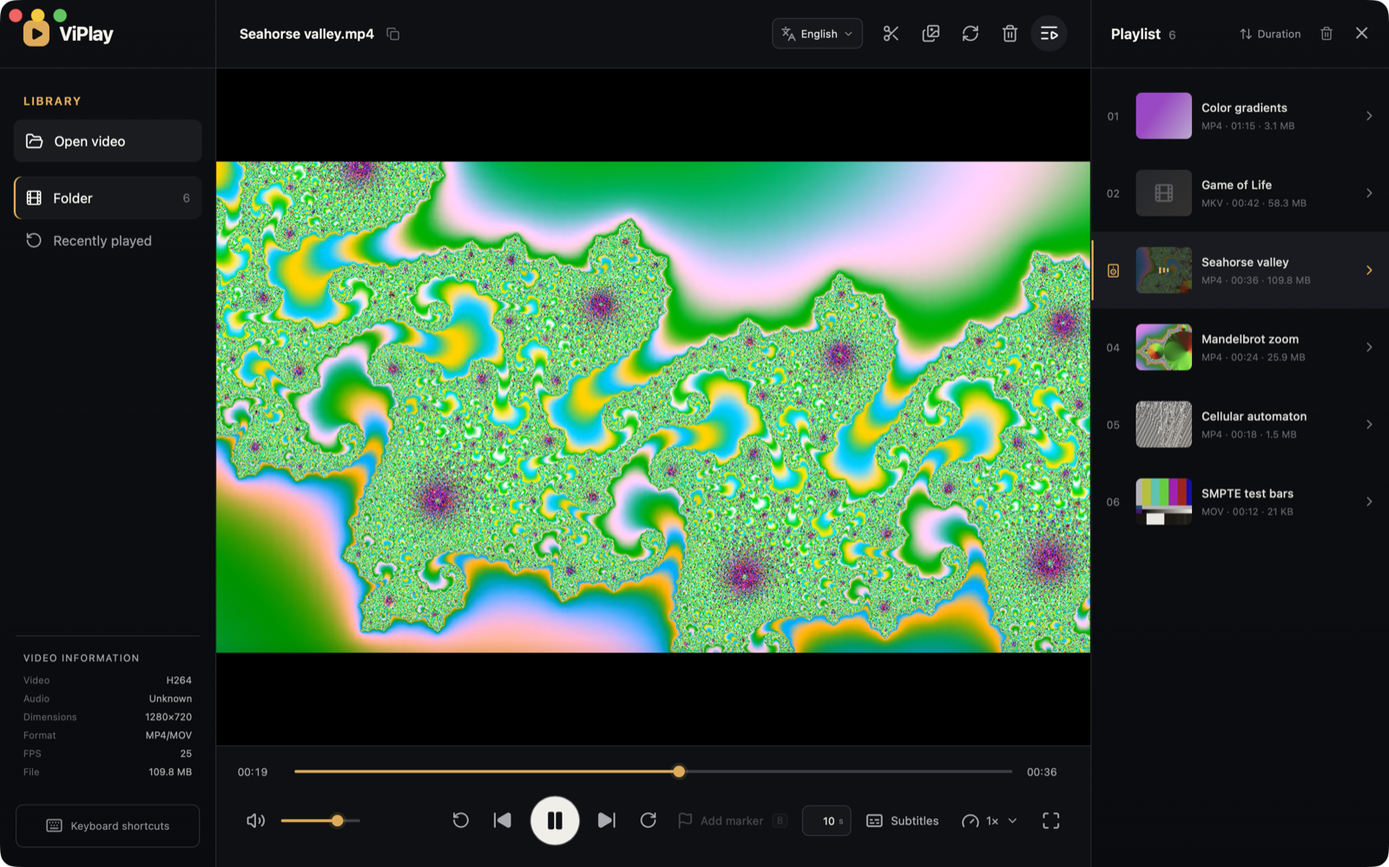
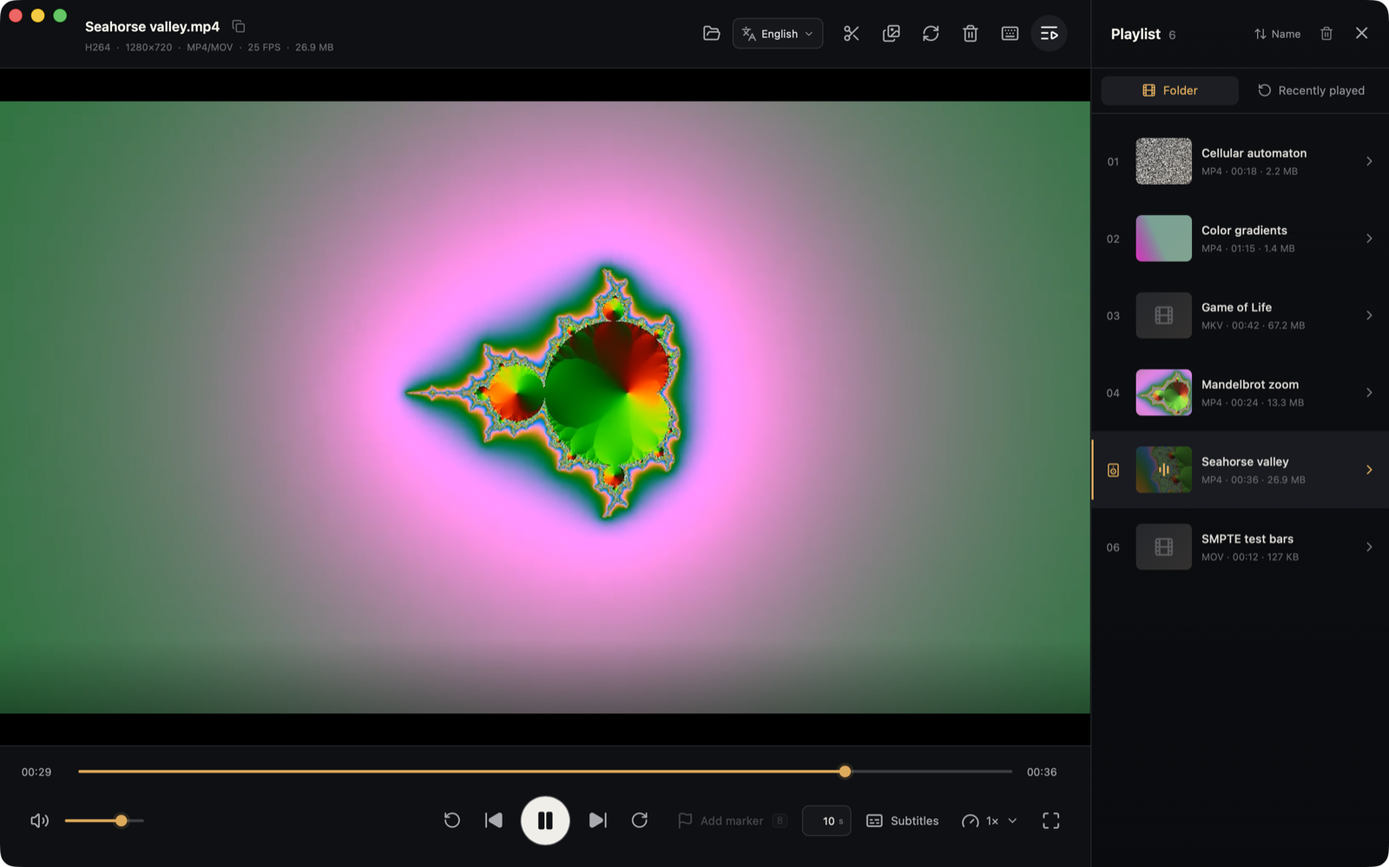
Remove the left sidebar, fix the delete dialog, and update to Wails v3.0.0
- Move Open video and keyboard shortcuts into the top bar, Folder/Recently
  played into playlist tabs, and media details under the file name
- Truncate long file names so top-bar buttons stay in place
- Fullscreen shows only the video, with hover-revealed controls and an
  idle-hidden cursor; Esc leaves fullscreen
- Fix the delete dialog's confirm button, which called a removed handler
- Start playback automatically after Open video
- Update Wails to v3.0.0 and refresh the README screenshot

diff --git a/frontend/src/styles.css b/frontend/src/styles.css
@@ -3,33 +3,16 @@
 html,body,#root { margin:0; width:100%; height:100%; overflow:hidden; }
 button,select,input { font:inherit; }
 button { color:inherit; }
-.app { position:relative;height:100%;display:grid;grid-template-columns:224px minmax(0,1fr);background:#090a0c; }
-.app.queue-closed { grid-template-columns:224px minmax(0,1fr); }
-.sidebar,.queue { background:linear-gradient(180deg,#0d0f12,#0a0b0e); min-width:0; z-index:3; }
-.sidebar { border-right:1px solid var(--line); display:flex; flex-direction:column; }
-.brand { height:72px; display:flex; align-items:center; gap:10px; padding:0 24px; font-weight:700; font-size:20px; letter-spacing:-.5px; border-bottom:1px solid var(--line); --wails-draggable:drag; -webkit-app-region:drag; }
-.brand-mark { width:27px;height:27px;border-radius:8px;background:var(--amber);color:#171109;display:grid;place-items:center; }
-nav { padding:26px 14px; --wails-draggable:none; -webkit-app-region:no-drag; }
-.nav-title { display:block;color:var(--amber);font-size:12px;font-weight:600;text-transform:uppercase;letter-spacing:1.3px;padding:0 10px 12px; }
-.open-button,.nav-item { width:100%;height:44px;border:0;border-radius:8px;display:flex;align-items:center;gap:11px;padding:0 12px;background:transparent;color:#9b9da3;cursor:pointer;text-align:left;font-size:14px; }
-.open-button { background:#1a1c20;color:#f5f3ed;margin-bottom:15px; }
-.open-button:hover { background:#22252a; }
-.nav-item:hover,.nav-item.selected { color:#f3f0e8;background:#16181c; }
-.nav-item.selected { box-shadow:inset 2px 0 var(--amber); }
-.nav-item:disabled { cursor:default;opacity:.45;background:transparent; }
-.nav-item span { margin-left:auto;color:#686b72;font-size:12px; }
-.shortcut-card { margin:auto 16px 0;padding:16px;border-top:1px solid var(--line);color:#777a82;font-size:11px;line-height:2.3; }
-.shortcut-card>span { display:block;color:#a5a7ac;text-transform:uppercase;letter-spacing:1px;margin-bottom:5px; }
+.app { position:relative;height:100%;display:grid;grid-template-columns:minmax(0,1fr) 310px;background:#090a0c; }
+.app.queue-closed { grid-template-columns:minmax(0,1fr); }
+.queue { background:linear-gradient(180deg,#0d0f12,#0a0b0e); min-width:0; z-index:3; }
 kbd { background:#1b1d22;border:1px solid #33363c;border-radius:4px;color:#bbb;padding:2px 5px;margin-right:5px;font-size:10px; }
-.engine-note { padding:20px 26px 26px;color:#575a61;font-size:11px;line-height:1.6; }.engine-note strong{color:#85878d;font-weight:500}
-.media-sidebar{margin:auto 16px 0;padding:16px 8px;border-top:1px solid var(--line)}.media-sidebar>span{display:block;color:#a5a7ac;font-size:10px;text-transform:uppercase;letter-spacing:1px;margin-bottom:11px}.media-sidebar dl{display:grid;gap:7px;margin:0}.media-sidebar dl div{display:flex;justify-content:space-between;gap:9px}.media-sidebar dt{color:#5f6269;font-size:10px}.media-sidebar dd{margin:0;color:#aaa;max-width:105px;font-size:10px;white-space:nowrap;overflow:hidden;text-overflow:ellipsis}.media-sidebar p{margin:0;color:#5f6269;font-size:10px;line-height:1.5}.sidebar nav{flex:1}
-.shortcut-trigger{height:45px;margin:12px 16px 20px;border:1px solid #292c31;border-radius:8px;background:transparent;color:#898c93;display:flex;align-items:center;justify-content:center;gap:8px;font-size:11px;cursor:pointer}.shortcut-trigger:hover{color:#fff;border-color:#44474e;background:#15171b}
 .shortcut-modal{position:absolute;z-index:20;inset:0;background:rgba(0,0,0,.66);display:grid;place-items:center;backdrop-filter:blur(8px)}.shortcut-modal>section{width:min(420px,calc(100% - 40px));padding:20px 22px;background:#131519;border:1px solid #30333a;border-radius:13px;box-shadow:0 30px 90px #000}.shortcut-modal header{display:flex;align-items:center;justify-content:space-between;margin-bottom:18px}.shortcut-modal header>div{display:flex;flex-direction:column;gap:3px}.shortcut-modal header span{color:var(--amber);font-size:9px;letter-spacing:1.3px;text-transform:uppercase}.shortcut-modal header strong{font-size:17px}.shortcut-modal dl{display:grid;gap:0;margin:0}.shortcut-modal dl div{min-height:46px;display:flex;align-items:center;justify-content:space-between;border-top:1px solid #292c31}.shortcut-modal dt{color:#9b9da3;font-size:12px}.shortcut-modal dd{margin:0;display:flex;gap:4px}
-.player-shell { width:100%;height:100%;min-width:0;min-height:0;overflow:hidden;display:grid;grid-template-rows:72px minmax(0,1fr) 126px;background:#07080a; }
+.player-shell { width:100%;height:100%;min-width:0;min-height:0;overflow:hidden;display:grid;grid-template-columns:minmax(0,1fr);grid-template-rows:72px minmax(0,1fr) 126px;background:#07080a; }
 .topbar { display:flex;align-items:center;justify-content:space-between;padding:0 24px;border-bottom:1px solid var(--line);background:#0e1013; --wails-draggable:drag; -webkit-app-region:drag; }
 .topbar-actions{display:flex;align-items:center;gap:3px;--wails-draggable:none;-webkit-app-region:no-drag;}.icon-btn:disabled{opacity:.3;cursor:not-allowed}.icon-btn.danger:not(:disabled):hover{color:#ff7d73;background:rgba(255,90,80,.1)}
 .language-picker{height:32px;display:flex;align-items:center;gap:5px;margin-right:7px;padding:0 8px;border:1px solid #30333a;border-radius:7px;background:#15171b;color:#8f9299;--wails-draggable:none;-webkit-app-region:no-drag;}.language-picker select{max-width:76px;appearance:none;border:0;outline:0;background:transparent;color:#d8d9dc;font-size:11px;cursor:pointer}.language-picker option{background:#16181c;color:#fff}
-.topbar>div:first-child { min-width:0;display:flex;flex-direction:column;gap:3px; }.topbar strong{white-space:nowrap;overflow:hidden;text-overflow:ellipsis;font-weight:600;font-size:14px}.eyebrow{font-size:9px;letter-spacing:1.6px;color:#686b72}
+.topbar-left { flex:1;min-width:0;display:flex;align-items:center;gap:10px;margin-right:16px; }.topbar strong{white-space:nowrap;overflow:hidden;text-overflow:ellipsis;font-weight:600;font-size:14px}.eyebrow{font-size:9px;letter-spacing:1.6px;color:#686b72}
 .topbar-file{min-width:0;display:flex;align-items:center;gap:7px}.topbar-file strong{min-width:0}.copy-path{flex:none;width:25px;height:25px;padding:0;border:0;border-radius:6px;background:transparent;color:#696c73;display:grid;place-items:center;cursor:pointer;--wails-draggable:none;-webkit-app-region:no-drag;}.copy-path:hover:not(:disabled){background:#1f2227;color:var(--amber)}.copy-path:disabled{opacity:.25;cursor:not-allowed}
 button,select,input{--wails-draggable:none;-webkit-app-region:no-drag;}
 .icon-btn { border:0;background:transparent;width:38px;height:38px;border-radius:50%;display:grid;place-items:center;color:#a8aab0;cursor:pointer; }
@@ -51,14 +34,14 @@ input[type=range]{--progress:0%;appearance:none;height:3px;border-radius:2px;bac
 .seek-step{height:32px;display:flex;align-items:center;border:1px solid #30333a;border-radius:7px;background:#15171b;color:#777a82;overflow:hidden}.seek-step input{width:35px;border:0;outline:0;background:transparent;color:#e4e1da;text-align:right;font-size:11px;padding:0 2px 0 5px;appearance:textfield}.seek-step input::-webkit-inner-spin-button,.seek-step input::-webkit-outer-spin-button{appearance:none;margin:0}.seek-step span{padding:0 7px 0 2px;font-size:9px}.seek-step:focus-within{border-color:var(--amber);box-shadow:0 0 0 2px rgba(231,168,75,.1)}
 .queue { border-left:1px solid var(--line);display:flex;flex-direction:column;min-width:0; }.queue-head{height:72px;border-bottom:1px solid var(--line);padding:0 10px 0 20px;display:flex;align-items:center;justify-content:space-between;gap:8px}.queue-head>div{display:flex;align-items:center;gap:2px}.queue-head strong{font-weight:600;font-size:15px;display:flex;align-items:baseline;gap:8px}.queue-head strong span{font-size:12px;font-weight:500;color:#686b72}.icon-btn.small{width:32px;height:32px;color:#777a81}.queue-list{overflow:auto;flex:1;padding:9px 0}.queue-item{border:0;background:transparent;width:100%;min-height:80px;display:grid;grid-template-columns:27px 58px 1fr 16px;gap:10px;align-items:center;text-align:left;padding:9px 13px 9px 9px;color:#74777e;cursor:pointer;position:relative}.queue-item:hover{background:#14161a}.queue-item.current{background:#191b20;color:var(--amber)}.queue-item.current:before{content:'';position:absolute;left:0;top:9px;bottom:9px;width:2px;background:var(--amber)}.queue-number{font-size:11px;text-align:center}.thumb{width:58px;height:48px;border-radius:6px;background:#24272c;color:#555960;display:grid;place-items:center;position:relative;overflow:hidden}.thumb:after{content:'';position:absolute;inset:0;background:linear-gradient(135deg,transparent,rgba(231,168,75,.08))}.thumb i{position:absolute;inset:0;background:rgba(0,0,0,.6);display:flex;align-items:center;justify-content:center;gap:2px;z-index:2}.thumb i span{display:block;width:2px;background:var(--amber);animation:eq .7s infinite alternate}.thumb i span:nth-child(1){height:12px}.thumb i span:nth-child(2){height:20px;animation-delay:.2s}.thumb i span:nth-child(3){height:8px;animation-delay:.4s}@keyframes eq{to{height:4px}}.queue-copy{min-width:0;display:flex;flex-direction:column;gap:5px}.queue-copy strong{color:#d8d6d1;font-size:12px;font-weight:500;white-space:nowrap;overflow:hidden;text-overflow:ellipsis}.queue-copy small{font-size:10px;color:#62656c}.queue-empty{text-align:center;color:#5d6067;padding:65px 20px}.queue-empty p{color:#92949a;font-size:13px}.queue-empty button{font-size:12px;padding:9px 13px}
 .thumbnail-progress{padding:11px 13px;border-bottom:1px solid var(--line);background:#0c0e11}.thumbnail-progress-head{display:flex;align-items:center;justify-content:space-between;gap:8px}.thumbnail-progress-head small{font-size:11px;color:#8c8f96}.thumbnail-progress-head>div{display:flex;gap:2px}.thumbnail-progress button{width:26px;height:26px;padding:0;border:0;border-radius:6px;background:transparent;color:#777a81;display:grid;place-items:center;cursor:pointer}.thumbnail-progress button:hover{background:#202329;color:#fff}.thumbnail-progress-track{height:3px;margin-top:9px;border-radius:2px;background:#292c31;overflow:hidden}.thumbnail-progress-track i{display:block;height:100%;border-radius:inherit;background:var(--amber);transition:width .2s}.thumbnail-current{display:block;margin-top:6px;color:#55585f;font-size:8px;white-space:nowrap;overflow:hidden;text-overflow:ellipsis}
-@media(max-width:1150px){.app{grid-template-columns:74px minmax(0,1fr) 280px}.app.queue-closed{grid-template-columns:74px minmax(0,1fr)}.brand{padding:0;justify-content:center;font-size:0}.brand-mark{display:grid}nav{padding:22px 9px}.nav-title,.nav-item span,.nav-item{font-size:0}.open-button{font-size:0;justify-content:center;padding:0}.nav-item{justify-content:center;padding:0}.shortcut-card,.engine-note,.media-sidebar{display:none}.shortcut-trigger{width:44px;margin:auto auto 18px;font-size:0;padding:0}.tool span,.volume-group input,.marker-tool kbd{display:none}}
-@media(max-width:860px){.app{grid-template-columns:64px minmax(0,1fr)}.queue{position:absolute;right:0;top:0;bottom:0;width:290px;box-shadow:-20px 0 50px #000}.player-shell{grid-template-rows:64px minmax(0,1fr) 118px}.topbar,.queue-head{height:64px}.controls{padding:11px 12px}.tools .speed svg:first-child{display:none}.transport{gap:0}.control-row{grid-template-columns:70px 1fr 100px}.primary-play{width:45px;height:45px}.sidebar .brand{height:64px}}
+@media(max-width:1150px){.app{grid-template-columns:minmax(0,1fr) 280px}.tool span,.volume-group input,.marker-tool kbd{display:none}}
+@media(max-width:860px){.app{grid-template-columns:minmax(0,1fr)}.queue{position:absolute;right:0;top:0;bottom:0;width:290px;box-shadow:-20px 0 50px #000}.player-shell{grid-template-rows:64px minmax(0,1fr) 118px}.topbar,.queue-head{height:64px}.controls{padding:11px 12px}.tools .speed svg:first-child{display:none}.transport{gap:0}.control-row{grid-template-columns:70px 1fr 100px}.primary-play{width:45px;height:45px}}
 @media(prefers-reduced-motion:reduce){*{animation:none!important;transition:none!important}}
 
 /* The playlist is a column so it never covers the toolbar or controls; it overlays only on narrow windows. */
-.app{grid-template-columns:224px minmax(0,1fr) 310px}
-@media(max-width:1150px){.app{grid-template-columns:74px minmax(0,1fr) 280px}.app.queue-closed{grid-template-columns:74px minmax(0,1fr)}}
-@media(max-width:860px){.app,.app.queue-closed{grid-template-columns:64px minmax(0,1fr)}.queue{position:absolute;right:0;top:0;bottom:0;width:290px;box-shadow:-20px 0 50px rgba(0,0,0,.45)}}
+.app{grid-template-columns:minmax(0,1fr) 310px}
+@media(max-width:1150px){.app{grid-template-columns:minmax(0,1fr) 280px}.app.queue-closed{grid-template-columns:minmax(0,1fr)}}
+@media(max-width:860px){.app,.app.queue-closed{grid-template-columns:minmax(0,1fr)}.queue{position:absolute;right:0;top:0;bottom:0;width:290px;box-shadow:-20px 0 50px rgba(0,0,0,.45)}}
 .thumb>img{position:absolute;inset:0;width:100%;height:100%;object-fit:cover;z-index:1}.thumb:after{z-index:1}
 .operation-btn.processing{color:var(--amber);background:rgba(231,168,75,.12)}.operation-btn.can-cancel{color:#f06b62;background:rgba(240,107,98,.14)}.operation-btn.can-cancel:hover{background:rgba(240,107,98,.24);color:#ff7d74}.spin{animation:spin .8s linear infinite}@keyframes spin{to{transform:rotate(360deg)}}
 .operation-notice{position:absolute;z-index:30;right:24px;bottom:24px;width:min(520px,calc(100% - 48px));min-height:66px;padding:13px 15px;border:1px solid #35383f;border-radius:11px;background:rgba(20,22,26,.97);box-shadow:0 20px 65px rgba(0,0,0,.55);display:grid;grid-template-columns:24px minmax(0,1fr) 24px;gap:12px;align-items:center;text-align:left;color:#d8d9dc;backdrop-filter:blur(14px)}.operation-notice.transcode-notice{grid-template-columns:24px minmax(0,1fr) auto 24px;min-height:76px}.operation-notice.progress>svg:first-child{color:var(--amber)}.operation-notice.success{border-color:rgba(76,190,126,.4)}.operation-notice.success>svg:first-child{color:#58c98a}.operation-notice.error{border-color:rgba(240,91,82,.42);align-items:start}.operation-notice.error>svg:first-child{color:#f06b62}.operation-notice span{min-width:0;display:flex;flex-direction:column;gap:4px}.operation-notice strong{font-size:13px}.operation-notice small{font-size:10px;color:#8c8f96;white-space:nowrap;overflow:hidden;text-overflow:ellipsis}.operation-notice.error small{max-height:160px;overflow:auto;white-space:pre-wrap;overflow-wrap:anywhere;line-height:1.45;user-select:text}.notice-stop{width:26px;height:26px;padding:0;border:1px solid #4a4130;border-radius:6px;background:rgba(231,168,75,.12);color:var(--amber);display:grid;place-items:center;cursor:pointer;transition:.15s}.notice-stop:hover{background:rgba(231,168,75,.25);border-color:var(--amber);color:#fff}.transcode-progress-track{width:100%;height:4px;background:#2a2d33;border-radius:2px;overflow:hidden;margin-top:5px}.transcode-progress-fill{height:100%;background:var(--amber);transition:width .2s ease-out}.transcode-progress-meta{display:flex;align-items:center;gap:8px;font-size:10px;color:#8c8f96;margin-top:2px}.transcode-progress-meta span:first-child{color:var(--amber);font-weight:600}.notice-close{width:24px;height:24px;padding:0;border:0;border-radius:5px;background:transparent;color:#6d7077;display:grid;place-items:center;cursor:pointer}.notice-close:hover{background:#2b2e34;color:#d8d9dc}.notice-enter-active,.notice-leave-active{transition:.2s}.notice-enter-from,.notice-leave-to{opacity:0;transform:translateY(10px)}
@@ -87,3 +70,15 @@ html.native-engine, html.native-engine .app, html.native-engine .player-shell, h
 .queue-sort option{background:#16181c;color:#fff}
 .queue-head strong{min-width:0;white-space:nowrap}
 .queue-head>div{flex-shrink:0}
+/* Fullscreen shows only the picture; controls appear while hovered or focused. */
+.app.fullscreen .topbar{display:none}
+.app.fullscreen .player-shell{position:relative;grid-template-rows:minmax(0,1fr)}
+.app.fullscreen .controls{position:absolute;left:0;right:0;bottom:0;opacity:0;transition:opacity .2s}
+.app.fullscreen .controls:hover,.app.fullscreen .controls:focus-within{opacity:1}
+.app.cursor-idle,.app.cursor-idle *{cursor:none!important}
+.topbar-actions{flex:none}
+.topbar-meta{min-width:0;display:flex;flex-direction:column;gap:3px}
+.media-details{display:flex;gap:6px;color:#686b72;font-size:10px;white-space:nowrap;overflow:hidden}.media-details span+span:before{content:'·';margin-right:6px}
+/* The window keeps the macOS traffic lights over the top-left corner of the full-size content. */
+html.mac .topbar{padding-left:88px}
+.queue-tabs{display:flex;gap:4px;padding:8px 10px;border-bottom:1px solid var(--line)}.queue-tabs button{flex:1;height:30px;border:0;border-radius:7px;background:transparent;color:#8c8f96;display:flex;align-items:center;justify-content:center;gap:7px;font-size:12px;cursor:pointer}.queue-tabs button:hover:not(:disabled){background:#16181c;color:#f3f0e8}.queue-tabs button.selected{background:#1b1e23;color:var(--amber)}.queue-tabs button:disabled{opacity:.4;cursor:default}

diff --git a/frontend/src/App.vue b/frontend/src/App.vue
@@ -28,6 +28,8 @@ let wasPlayingBeforeSeek = false
 let scrubRaf = null
 const fullscreenActive = ref(false)
 const showQueue = ref(true)
+const cursorIdle = ref(false)
+let cursorTimer
 const subtitle = ref(null)
 const showShortcuts = ref(false)
 const showSheetDialog = ref(false)
@@ -105,6 +107,7 @@ async function openVideos() {
   queue.value = directory
   const selectedIndex = directory.findIndex(entry => entry.path === items[0].path)
   index.value = Math.max(0, selectedIndex)
+  autoplayOnReady = true
   libraryView.value = 'folder'
 }
 
@@ -445,8 +448,17 @@ function onTimeUpdate(event) {
 
 async function fullscreen() {
   await Window.ToggleFullscreen()
+  await syncFullscreen()
+}
+async function syncFullscreen() {
   fullscreenActive.value = await Window.IsFullscreen()
 }
+function wakeCursor() {
+  cursorIdle.value = false
+  window.clearTimeout(cursorTimer)
+  if (fullscreenActive.value) cursorTimer = window.setTimeout(() => { cursorIdle.value = true }, 2500)
+}
+watch(fullscreenActive, wakeCursor)
 async function select(i, autoplay = false) {
   if (seekResumeTimer) {
     window.clearTimeout(seekResumeTimer)
@@ -465,6 +477,18 @@ function next() { if (index.value < queue.value.length - 1) select(index.value +
 function previous() { current.value > 3 ? seekBy(-current.value) : index.value > 0 && select(index.value - 1, true) }
 function title(name) { return name.replace(/\.[^/.]+$/, '') }
 function fileType(name) { return name.split('.').pop().toUpperCase() }
+const mediaDetails = computed(() => {
+  const info = mediaInfo.value
+  if (!info) return []
+  return [
+    { label: t('mediaInfo.video'), value: info.videoCodec?.toUpperCase() },
+    { label: t('mediaInfo.audio'), value: info.audioCodec?.toUpperCase() },
+    { label: t('mediaInfo.dimensions'), value: info.width ? `${info.width}×${info.height}` : '' },
+    { label: t('mediaInfo.format'), value: info.container?.toUpperCase() },
+    { label: 'FPS', value: info.fps ? `${info.fps} FPS` : '' },
+    { label: t('mediaInfo.file'), value: info.size ? fileSize(info.size) : '' },
+  ].filter(detail => detail.value)
+})
 function fileSize(value) {
   if (!value) return '—'
   const megabytes = value / 1024 / 1024
@@ -768,6 +792,7 @@ function onKey(event) {
   if (event.key === 'Escape' && showSheetDialog.value) { showSheetDialog.value = false; return }
   if (event.key === 'Escape' && showShortcuts.value) { showShortcuts.value = false; return }
   if (showDeleteDialog.value || showTranscodeDialog.value || showShortcuts.value) return
+  if (event.key === 'Escape' && fullscreenActive.value) { fullscreen(); return }
   if (['INPUT', 'BUTTON'].includes(document.activeElement?.tagName) && event.code === 'Space') return
   if (document.activeElement?.tagName === 'INPUT' && document.activeElement.type !== 'range' && ['ArrowRight', 'ArrowLeft'].includes(event.code)) return
   const player = video.value
@@ -902,7 +927,7 @@ function updateVideoArea() {
   const right = Math.min(rect.right, queueLeft)
   video.value.setVideoArea(rect.left / width, rect.top / height, (width - right) / width, (height - rect.bottom) / height)
 }
-watch(showQueue, () => nextTick(updateVideoArea))
+watch([showQueue, fullscreenActive], () => nextTick(updateVideoArea))
 
 async function initNativeEngine() {
   try {
@@ -938,6 +963,9 @@ onMounted(() => {
   window.addEventListener('keyup', onKeyUp)
   window.addEventListener('dragenter', onWindowDragOver)
   window.addEventListener('dragover', onWindowDragOver)
+  // The OS can leave fullscreen without going through fullscreen(), e.g. the macOS window button.
+  window.addEventListener('resize', syncFullscreen)
+  window.addEventListener('mousemove', wakeCursor)
   window.addEventListener('dragleave', onWindowDragLeave)
   window.addEventListener('drop', onWindowDrop)
   Events.On('files-dropped', onWailsFilesDropped)
@@ -948,6 +976,9 @@ onBeforeUnmount(() => {
   queueObserver?.disconnect()
   window.clearTimeout(visibleTimer)
   window.removeEventListener('resize', updateVideoArea)
+  window.removeEventListener('resize', syncFullscreen)
+  window.removeEventListener('mousemove', wakeCursor)
+  window.clearTimeout(cursorTimer)
   window.removeEventListener('keydown', onKey)
   window.removeEventListener('keyup', onKeyUp)
   window.removeEventListener('dragenter', onWindowDragOver)
@@ -967,43 +998,28 @@ onBeforeUnmount(() => {
 </script>
 
 <template>
-  <main class="app" data-file-drop-target :class="{ 'queue-closed': !showQueue }">
+  <main class="app" data-file-drop-target :class="{ 'queue-closed': !showQueue || fullscreenActive, fullscreen: fullscreenActive, 'cursor-idle': fullscreenActive && cursorIdle }">
     <div v-if="fileDragOver" class="drop-overlay">
       <div class="drop-overlay-icon"><Film :size="36" /></div>
       <h2>{{ t('drop.title') }}</h2>
       <p>{{ t('drop.description') }}</p>
     </div>
-    <aside class="sidebar">
-      <div class="brand"><span class="brand-mark"><Play :size="14" fill="currentColor" /></span>ViPlay</div>
-      <nav>
-        <span class="nav-title">{{ t('library.title') }}</span>
-        <button class="open-button" @click="openVideos"><FolderOpen :size="19" />{{ t('library.openVideo') }}</button>
-        <button class="nav-item" :class="{ selected: item && libraryView === 'folder' }" :disabled="!item" @click="loadFolder"><Film :size="18" />{{ t('library.folder') }}<span>{{ libraryView === 'folder' ? queue.length : '' }}</span></button>
-        <button class="nav-item" :class="{ selected: libraryView === 'recent' }" @click="loadRecent"><RotateCcw :size="18" />{{ t('library.recent') }}</button>
-      </nav>
-      <div v-if="item" class="media-sidebar">
-        <span>{{ t('mediaInfo.title') }}</span>
-        <dl>
-          <div><dt>{{ t('mediaInfo.video') }}</dt><dd>{{ mediaInfo?.videoCodec?.toUpperCase() || t('mediaInfo.unknown') }}</dd></div>
-          <div><dt>{{ t('mediaInfo.audio') }}</dt><dd>{{ mediaInfo?.audioCodec?.toUpperCase() || t('mediaInfo.unknown') }}</dd></div>
-          <div><dt>{{ t('mediaInfo.dimensions') }}</dt><dd>{{ mediaInfo?.width ? `${mediaInfo.width}×${mediaInfo.height}` : '—' }}</dd></div>
-          <div><dt>{{ t('mediaInfo.format') }}</dt><dd>{{ mediaInfo?.container?.toUpperCase() || '—' }}</dd></div>
-          <div><dt>FPS</dt><dd>{{ mediaInfo?.fps || '—' }}</dd></div>
-          <div><dt>{{ t('mediaInfo.file') }}</dt><dd>{{ fileSize(mediaInfo?.size) }}</dd></div>
-        </dl>
-      </div>
-      <button class="shortcut-trigger" @click="showShortcuts = true"><Keyboard :size="18" /><span>{{ t('shortcuts.open') }}</span></button>
-    </aside>
-
     <section class="player-shell">
       <header class="topbar">
-        <div><span v-if="item" class="topbar-file"><strong :title="item.path">{{ item.name }}</strong><button class="copy-path" :disabled="!item" :aria-label="t('pathCopy.action')" :title="t('pathCopy.action')" @click="copyFullPath"><Copy :size="14" /></button></span></div>
+        <div class="topbar-left">
+          <div v-if="item" class="topbar-meta">
+            <span class="topbar-file"><strong :title="item.path">{{ item.name }}</strong><button class="copy-path" :aria-label="t('pathCopy.action')" :title="t('pathCopy.action')" @click="copyFullPath"><Copy :size="14" /></button></span>
+            <small v-if="mediaDetails.length" class="media-details" :aria-label="t('mediaInfo.title')"><span v-for="detail in mediaDetails" :key="detail.label" :title="detail.label">{{ detail.value }}</span></small>
+          </div>
+        </div>
         <div class="topbar-actions">
+          <button class="icon-btn" :aria-label="t('library.openVideo')" :title="t('library.openVideo')" @click="openVideos"><FolderOpen :size="19" /></button>
           <label class="language-picker" :title="t('language.label')"><Languages :size="16" /><select :value="locale" :aria-label="t('language.label')" @change="changeLanguage"><option v-for="language in locales" :key="language.code" :value="language.code">{{ language.label }}</option></select><ChevronDown :size="12" /></label>
           <button class="icon-btn operation-btn" :class="{ processing: processing === 'split', marked: splitMarkers.length }" :aria-label="splitMarkers.length ? t('actions.multiSplit', { count: splitMarkers.length }) : t('actions.split')" :title="splitMarkers.length ? t('actions.multiSplitTitle', { count: splitMarkers.length }) : t('actions.splitTitle')" @click="splitAtMarkers"><LoaderCircle v-if="processing === 'split'" class="spin" :size="20" /><Scissors v-else :size="19" /><span v-if="splitMarkers.length" class="marker-count">{{ splitMarkers.length }}</span></button>
           <button class="icon-btn operation-btn" :class="{ processing: processing === 'sheet' }" :aria-label="t('actions.contactSheet')" :title="t('actions.contactSheetTitle')" @click="createContactSheet"><LoaderCircle v-if="processing === 'sheet'" class="spin" :size="20" /><Images v-else :size="19" /></button>
           <button class="icon-btn operation-btn" :class="{ processing: processing === 'transcode' || processing === 'options', 'can-cancel': processing === 'transcode' }" :disabled="!item || item.kind !== 'video' || (!!processing && processing !== 'transcode')" :aria-label="processing === 'transcode' ? t('transcode.cancelAction') : t('actions.transcode')" :title="processing === 'transcode' ? t('transcode.cancelAction') : t('actions.transcodeTitle')" @click="processing === 'transcode' ? cancelTranscode() : requestTranscode()"><X v-if="processing === 'transcode'" :size="19" /><LoaderCircle v-else-if="processing === 'options'" class="spin" :size="20" /><RefreshCw v-else :size="19" /></button>
           <button class="icon-btn danger" :disabled="processing === 'delete'" :aria-label="t('actions.delete')" :title="t('actions.deleteTitle')" @click="requestDelete()"><Trash2 :size="19" /></button>
+          <button class="icon-btn" :aria-label="t('shortcuts.open')" :title="t('shortcuts.open')" @click="showShortcuts = true"><Keyboard :size="19" /></button>
           <button class="icon-btn" :class="{ active: showQueue }" :aria-label="t('actions.showQueue')" :title="t('actions.showQueue')" @click="showQueue = !showQueue"><ListVideo :size="20" /></button>
         </div>
       </header>
@@ -1052,7 +1068,7 @@ onBeforeUnmount(() => {
       </div>
     </section>
 
-    <aside v-if="showQueue" ref="queuePanel" class="queue">
+    <aside v-if="showQueue && !fullscreenActive" ref="queuePanel" class="queue">
       <div class="queue-head">
         <strong>{{ t('queue.playlist') }}<span v-if="queue.length">{{ queue.length }}</span></strong>
         <div>
@@ -1060,6 +1076,10 @@ onBeforeUnmount(() => {
           <button v-if="hasVideos" class="icon-btn small" :aria-label="t('thumbnails.clear')" :title="t('thumbnails.clear')" @click="clearThumbnails"><Trash2 :size="15" /></button>
           <button class="icon-btn" :aria-label="t('queue.close')" :title="t('queue.close')" @click="showQueue = false"><X :size="20" /></button>
         </div>
+      </div>
+      <div class="queue-tabs">
+        <button :class="{ selected: item && libraryView === 'folder' }" :disabled="!item" @click="loadFolder"><Film :size="15" />{{ t('library.folder') }}</button>
+        <button :class="{ selected: libraryView === 'recent' }" @click="loadRecent"><RotateCcw :size="15" />{{ t('library.recent') }}</button>
       </div>
       <div v-if="thumbnailProgress.active" class="thumbnail-progress">
         <div class="thumbnail-progress-head"><small>{{ thumbnailProgress.paused ? t('thumbnails.paused', { completed: thumbnailProgress.completed, total: thumbnailProgress.total }) : t('thumbnails.generating', { completed: thumbnailProgress.completed, total: thumbnailProgress.total }) }}</small><div>
@@ -1122,7 +1142,7 @@ onBeforeUnmount(() => {
       <section>
         <header><div><strong>{{ t('delete.title') }}</strong></div><button class="icon-btn" :aria-label="t('common.close')" @click="closeDeleteDialog"><X :size="20" /></button></header>
         <p>{{ t('delete.confirm', { name: (deleteTarget ?? item)?.name }) }}</p>
-        <footer><button class="cancel" @click="closeDeleteDialog">{{ t('delete.cancel') }}</button><button class="confirm danger" autofocus @click="deleteCurrent"><Trash2 :size="17" />{{ t('delete.action') }}</button></footer>
+        <footer><button class="cancel" @click="closeDeleteDialog">{{ t('delete.cancel') }}</button><button class="confirm danger" autofocus @click="confirmDelete"><Trash2 :size="17" />{{ t('delete.action') }}</button></footer>
       </section>
     </div>
 

diff --git a/frontend/src/main.js b/frontend/src/main.js
@@ -3,5 +3,6 @@ import App from './App.vue'
 import './styles.css'
 import { loadLocale, storedLocale } from './i18n'
 
+if (navigator.userAgent.includes('Mac')) document.documentElement.classList.add('mac')
 await loadLocale(storedLocale())
 createApp(App).mount('#root')

diff --git a/README.md b/README.md
@@ -17,7 +17,7 @@ Packaged macOS builds are self-contained: libmpv plays every format directly, an
 ## Development
 
 ```bash
-go install github.com/wailsapp/wails/v3/cmd/wails3@v3.0.0-beta.34
+go install github.com/wailsapp/wails/v3/cmd/wails3@v3.0.0
 cd frontend && npm install && cd ..
 wails3 dev
 ```

diff --git a/.agents/CONTEXT.md b/.agents/CONTEXT.md
@@ -2,7 +2,7 @@
 
 ## Stack
 
-- Go 1.26 and Wails v3 beta.34
+- Go 1.26 and Wails v3.0.0
 - Vue 3, Vite, and Lucide
 - Desktop targets: macOS, Windows, and Linux
 - Media runtime: libmpv, `ffmpeg`, and `ffprobe` (bundled into macOS packages from Homebrew; system FFmpeg on Windows/Linux)
